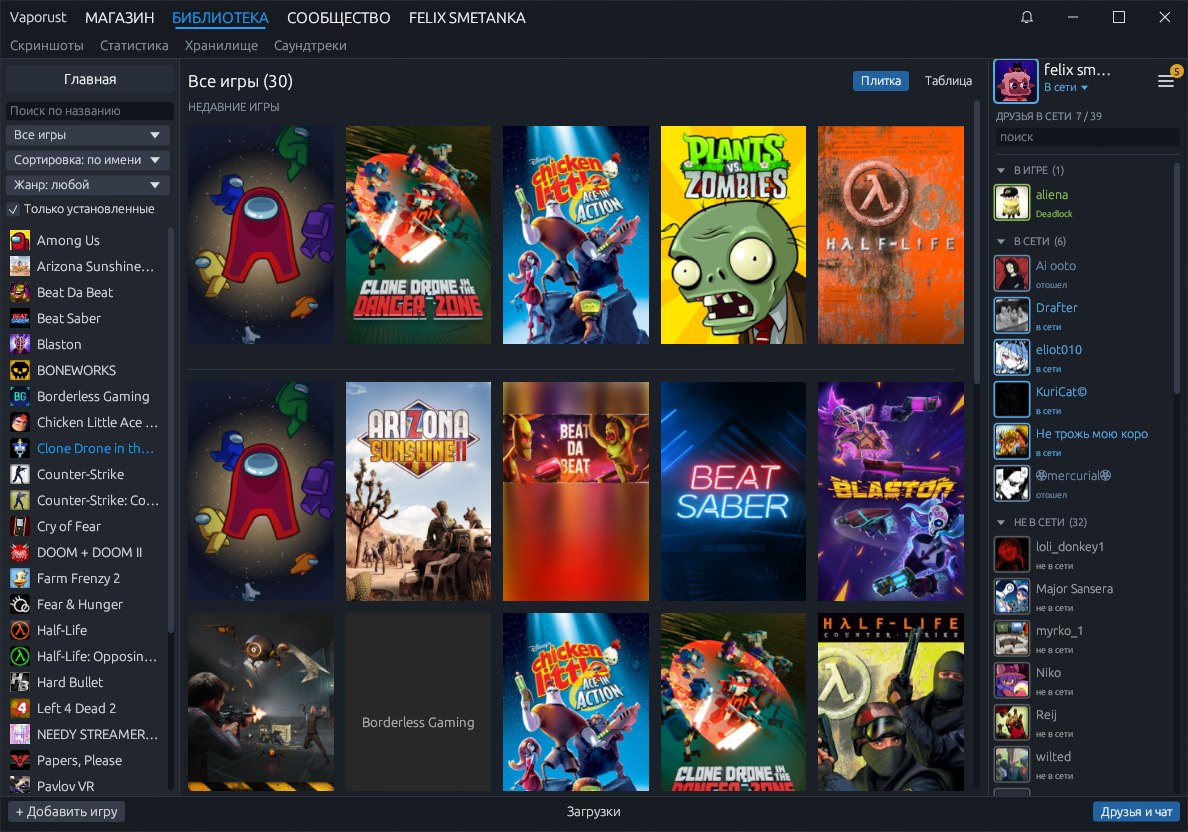
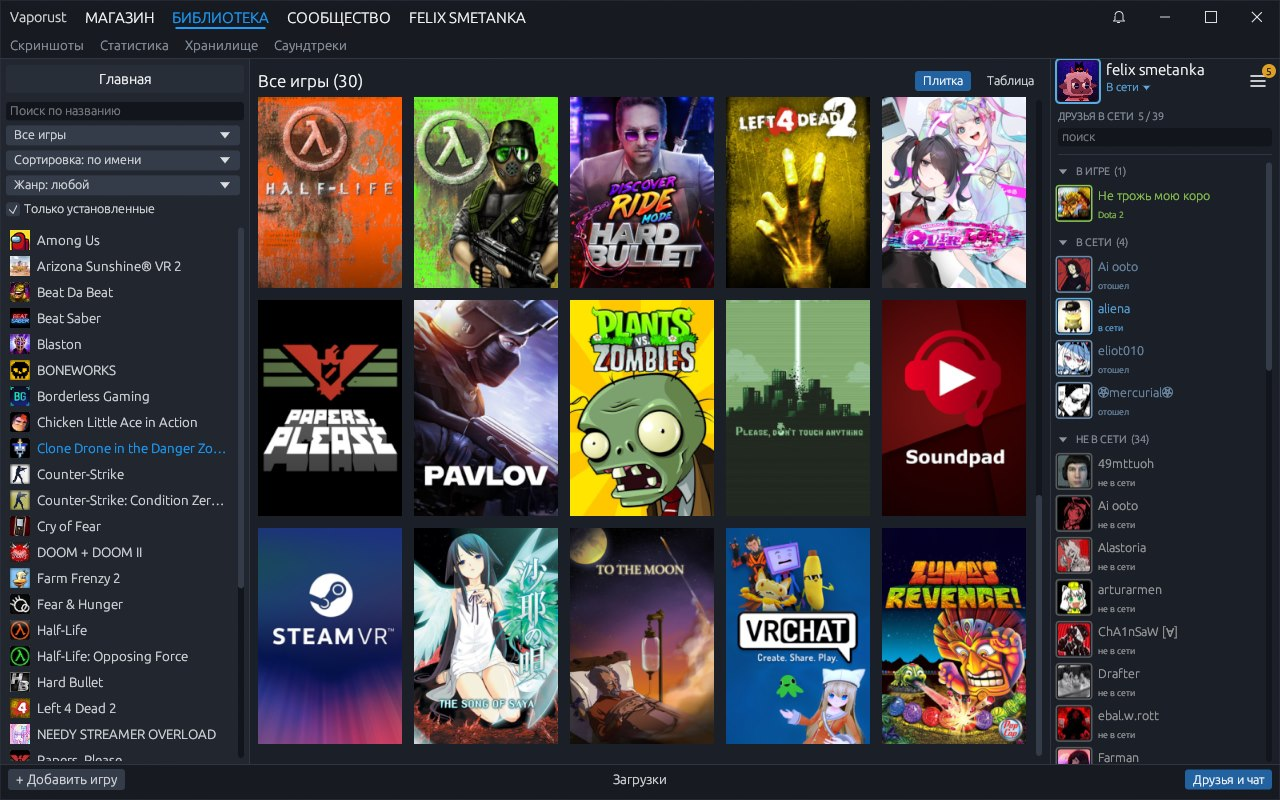
README: снимок библиотеки с играми; шаг обхода library_games

diff --git a/src/libview.rs b/src/libview.rs
@@ -208,7 +208,14 @@ pub fn grid(ui: &mut egui::Ui, rows: &[Row], c: &Ctx, covers: &Covers, recent: &
     // Под полкой - разделительная линия: полка и общий список - разные разделы.
     let shelf_h = if recent.is_empty() { 0.0 } else { label_h + row_h + label_h };
     let n_rows = rows.len().div_ceil(cols);
-    egui::ScrollArea::vertical().auto_shrink([false, false]).id_salt("lib_grid").show_viewport(ui, |ui, vp| {
+    // Обход со снимками (tour.rs) может попросить открыть сетку с N-го ряда (хранится N + 1;
+    // большое число - до самого низа, egui ограничит прокрутку концом списка).
+    let tour_row = TOUR_GRID_ROW.swap(0, std::sync::atomic::Ordering::Relaxed);
+    let mut area = egui::ScrollArea::vertical().auto_shrink([false, false]).id_salt("lib_grid");
+    if tour_row > 0 {
+        area = area.vertical_scroll_offset(shelf_h + (tour_row - 1) as f32 * row_h);
+    }
+    area.show_viewport(ui, |ui, vp| {
         let total = shelf_h + n_rows as f32 * row_h;
         ui.set_min_height(total);
         let origin = ui.min_rect().min;
@@ -937,3 +944,6 @@ fn family_text(r: &Row, c: &Ctx) -> String {
         None => "Семейная библиотека Steam".to_string(),
     }
 }
+
+/// Для обхода со снимками: открыть сетку с ряда N (значение N + 1, 0 - не трогать).
+pub static TOUR_GRID_ROW: std::sync::atomic::AtomicUsize = std::sync::atomic::AtomicUsize::new(0);

diff --git a/src/tour.rs b/src/tour.rs
@@ -30,6 +30,7 @@ impl Tour {
 /// Шаги обхода: имя и сколько секунд ждать загрузки раздела.
 const STEPS: &[(&str, f64)] = &[
     ("library_grid", 4.0),
+    ("library_games", 20.0),
     ("library_list", 3.0),
     ("game_page", 6.0),
     ("downloads", 3.0),
@@ -159,12 +160,15 @@ impl LauncherApp {
             }
         };
         match name {
-            "library_grid" | "library_list" => {
+            "library_grid" | "library_list" | "library_games" => {
+                if name == "library_games" {
+                    crate::libview::TOUR_GRID_ROW.store(1000, std::sync::atomic::Ordering::Relaxed);
+                }
                 self.close_extras(View::Library);
                 self.view = View::Library;
                 self.lib_page = None;
                 self.settings.view =
-                    if name == "library_grid" { crate::settings::View::Grid } else { crate::settings::View::List };
+                    if name != "library_list" { crate::settings::View::Grid } else { crate::settings::View::List };
             }
             "game_page" => {
                 self.settings.view = crate::settings::View::Grid;
